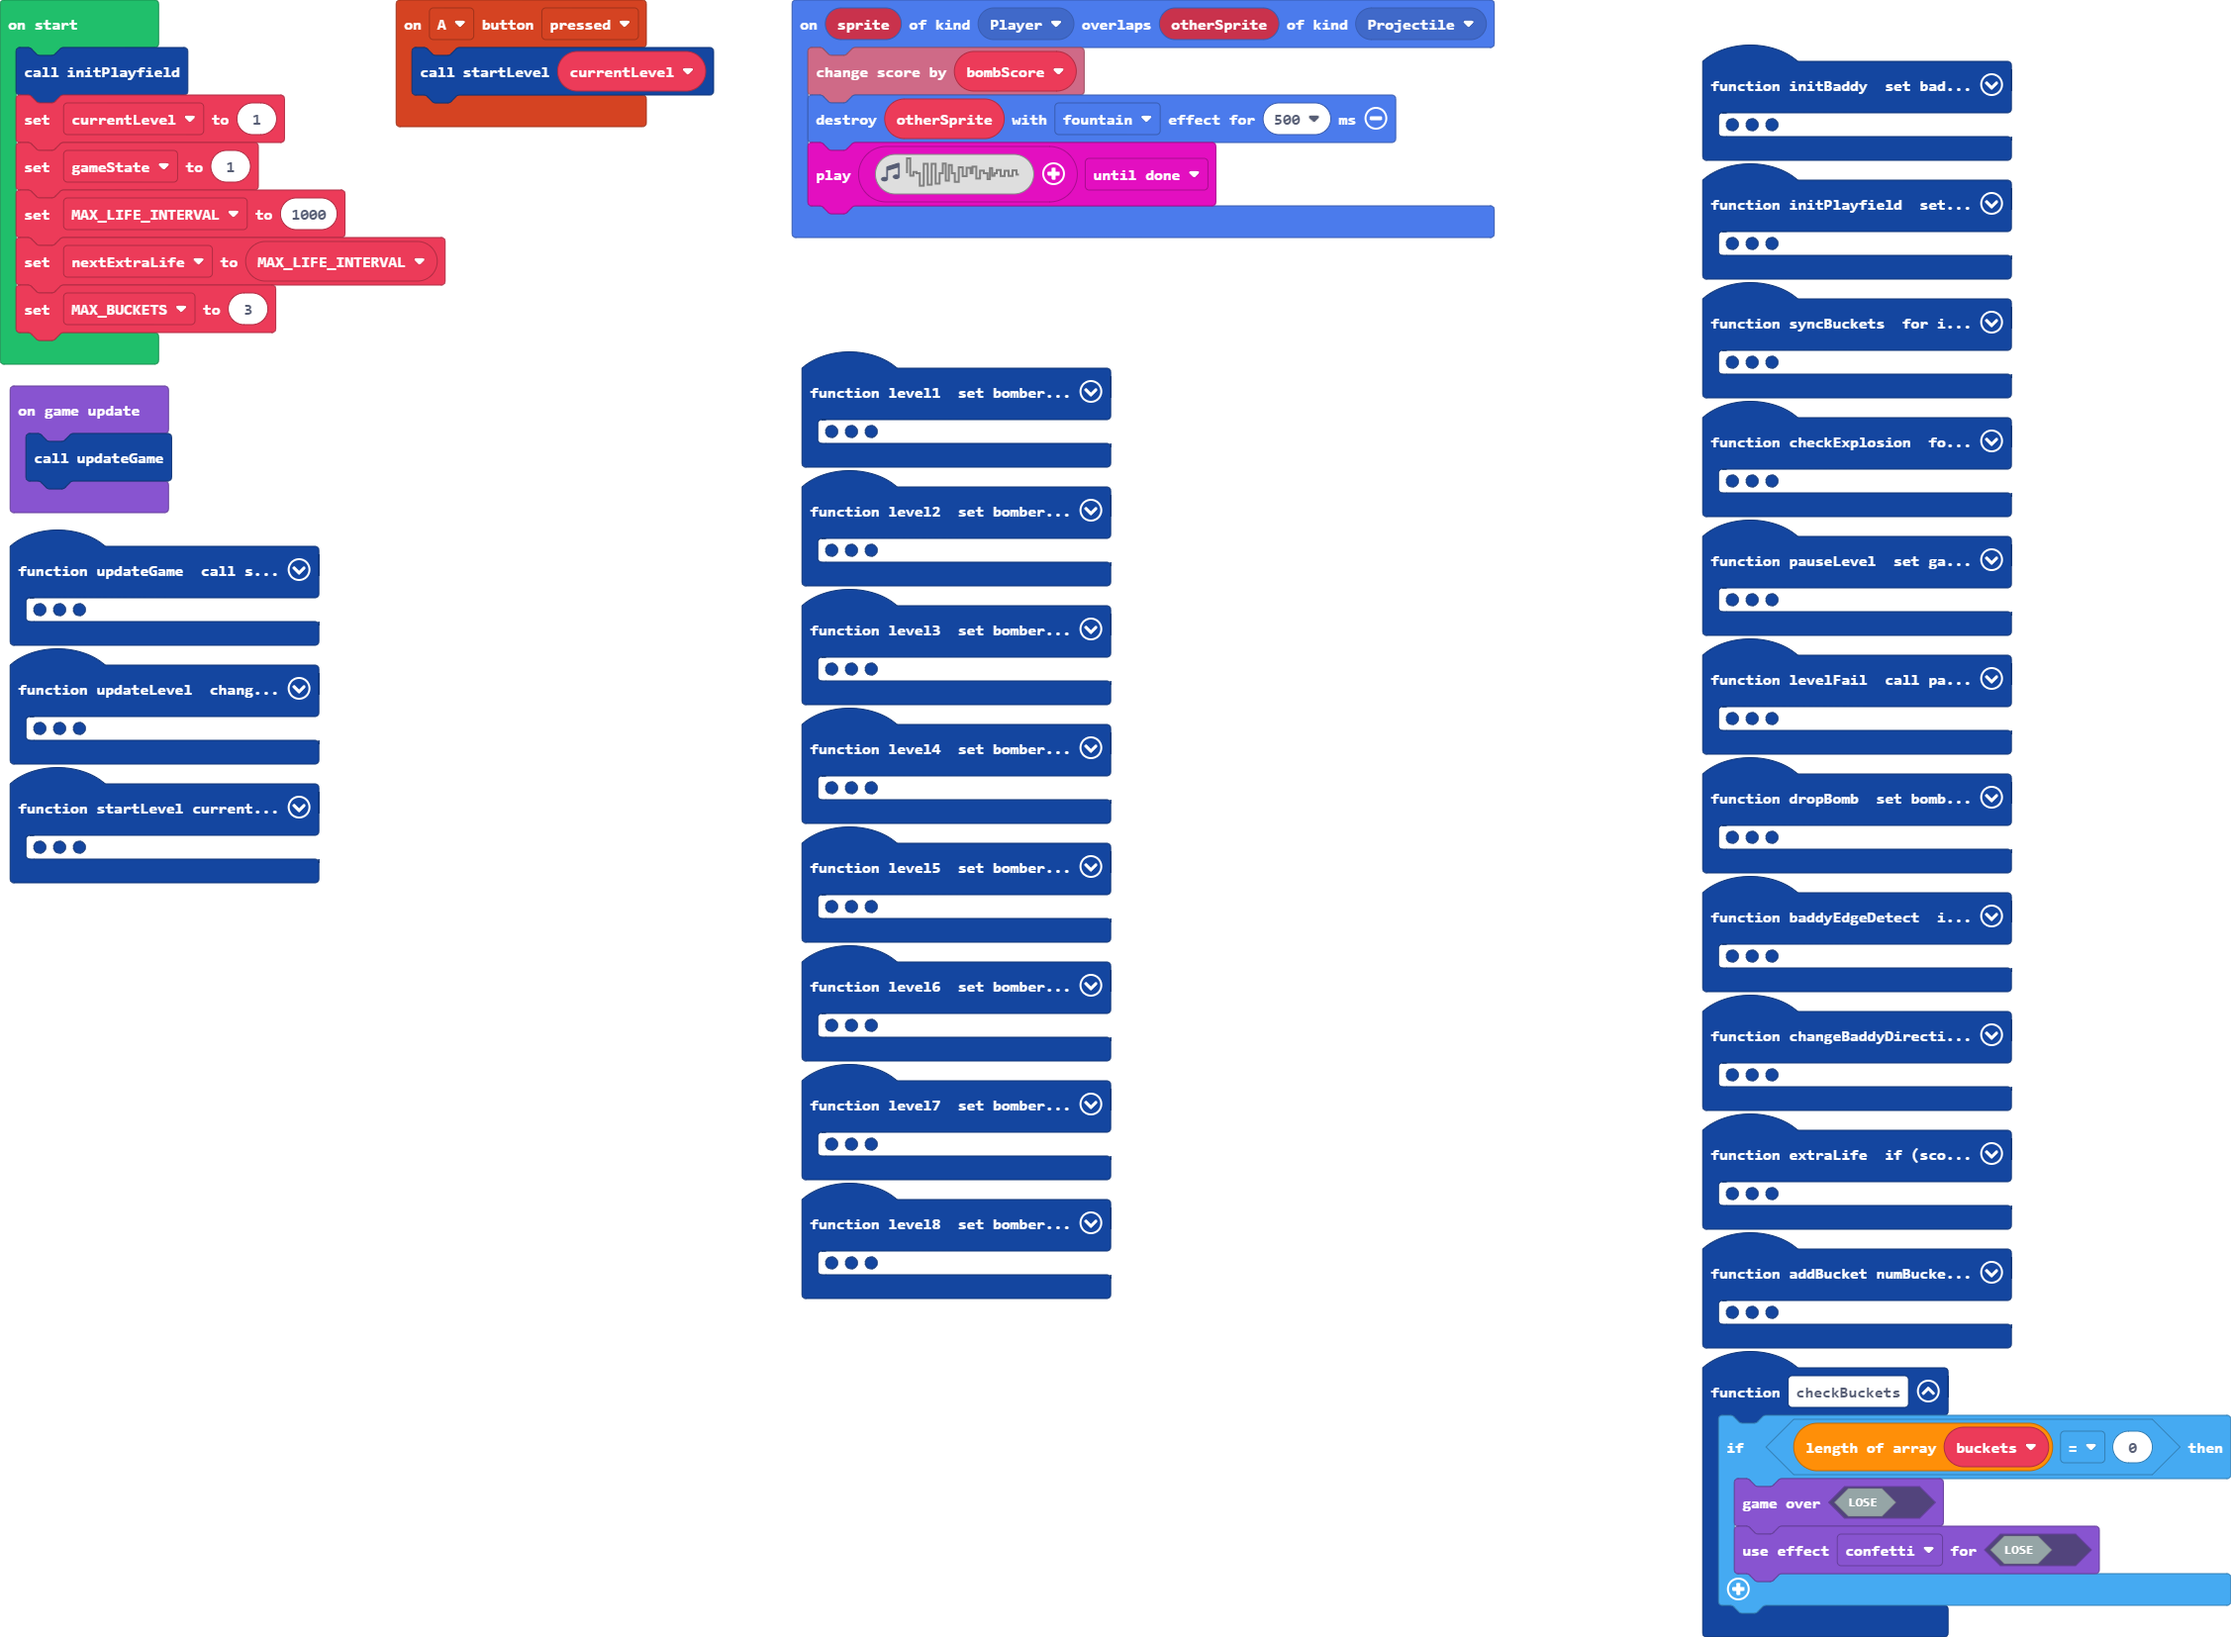
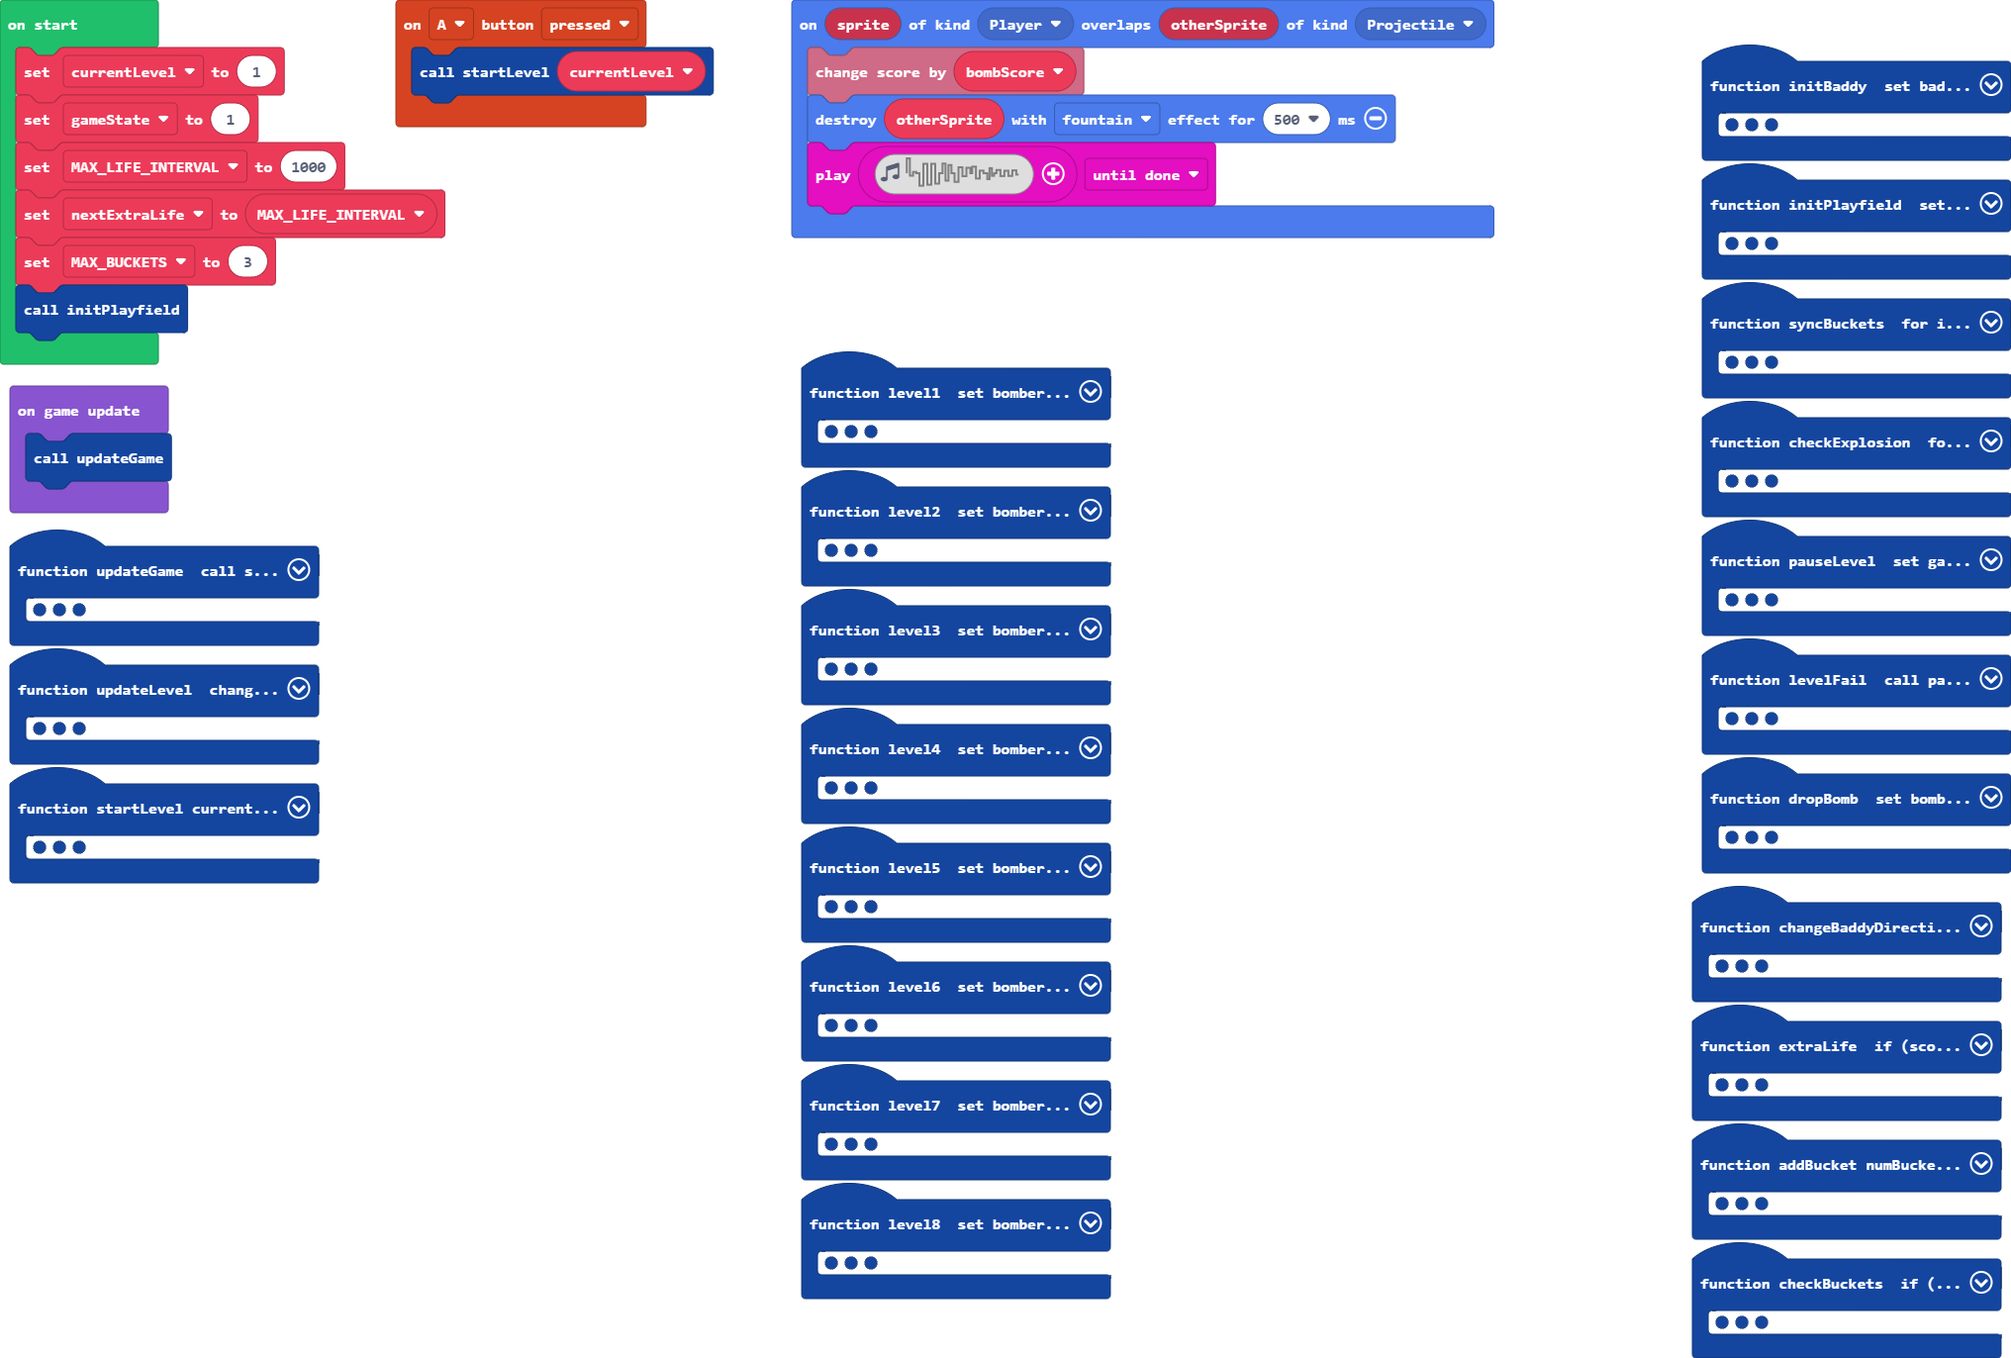
Update main.blocks, main.ts, main.py

diff --git a/main.ts b/main.ts
@@ -271,15 +271,6 @@ function changeBaddyDirection () {
     bomberSpeed = bomberSpeed * -1
     baddy.setVelocity(bomberSpeed, 0)
 }
-function baddyEdgeDetect () {
-    if (baddy.x <= 8) {
-        return 0
-    } else if (baddy.x >= 148) {
-        return 0
-    } else {
-        return 1
-    }
-}
 function startLevel (currentLevel: number) {
     if (currentLevel == 1) {
         level1()
@@ -355,12 +346,12 @@ let nextExtraLife = 0
 let MAX_LIFE_INTERVAL = 0
 let gameState = 0
 let currentLevel = 0
-initPlayfield()
 currentLevel = 1
 gameState = 1
 MAX_LIFE_INTERVAL = 1000
 nextExtraLife = MAX_LIFE_INTERVAL
 MAX_BUCKETS = 3
+initPlayfield()
 game.onUpdate(function () {
     updateGame()
 })

diff --git a/main.py b/main.py
@@ -32,6 +32,7 @@ def level4():
 def checkExplosion():
     for value in sprites.all_of_kind(SpriteKind.projectile):
         if value.y > scene.screen_height():
+            baddy.set_image(baddyImages[currentLevel2 + 8])
             levelFail()
 def level1():
     global bomberSpeed, bombCount, bombScore, bombsDropped, directionChangeLB, directionChangeUB, directionChange, dropIntervalLB, dropIntervalUB, dropInterval, dropSpeed, successState
@@ -47,6 +48,95 @@ def level1():
     dropInterval = randint(dropIntervalLB, dropIntervalUB)
     dropSpeed = 10
     successState = 1
+def addBucket(numBuckets: number):
+    global bucket
+    bucket = sprites.create(assets.image("""
+        bucket
+    """), SpriteKind.player)
+    bucket.set_position(scene.screen_width() / 2,
+        playerSprite.y + (12 + numBuckets * 12))
+    buckets.append(bucket)
+def initBaddy():
+    global baddyImages, baddy
+    baddyImages = [assets.image("""
+            happyEscaper04
+        """),
+        assets.image("""
+            sadEscaper1
+        """),
+        assets.image("""
+            sadEscaper2
+        """),
+        assets.image("""
+            sadEscaper3
+        """),
+        assets.image("""
+            sadEscaper4
+        """),
+        assets.image("""
+            sadEscaper5
+        """),
+        assets.image("""
+            sadEscaper6
+        """),
+        assets.image("""
+            sadEscaper7
+        """),
+        assets.image("""
+            sadEscaper8
+        """),
+        assets.image("""
+            happyEscaper04
+        """),
+        assets.image("""
+            happyEscaper04
+        """),
+        assets.image("""
+            happyEscaper04
+        """),
+        assets.image("""
+            happyEscaper4
+        """),
+        assets.image("""
+            happyEscaper5
+        """),
+        assets.image("""
+            happyEscaper6
+        """),
+        assets.image("""
+            happyEscaper7
+        """),
+        assets.image("""
+            happyEscaper8
+        """),
+        assets.image("""
+            surpriseEscaper13
+        """),
+        assets.image("""
+            surpriseEscaper13
+        """),
+        assets.image("""
+            surpriseEscaper13
+        """),
+        assets.image("""
+            surpriseEscaper4
+        """),
+        assets.image("""
+            surpriseEscaper5
+        """),
+        assets.image("""
+            surpriseEscaper6
+        """),
+        assets.image("""
+            surpriseEscaper7
+        """),
+        assets.image("""
+            surpriseEscaper8
+        """)]
+    baddy = sprites.create(baddyImages[0], SpriteKind.enemy)
+    baddy.set_position(10, 15)
+    baddy.set_stay_in_screen(True)
+    baddy.set_bounce_on_wall(True)
 
 def on_a_pressed():
     startLevel(currentLevel2)
@@ -114,6 +204,10 @@ def level2():
     dropInterval = randint(dropIntervalLB, dropIntervalUB)
     dropSpeed = 20
     successState = 1
+def checkBuckets():
+    if len(buckets) == 0:
+        game.game_over(False)
+        game.set_game_over_effect(False, effects.confetti)
 
 def on_on_overlap(sprite, otherSprite):
     info.change_score_by(bombScore)
@@ -133,12 +227,11 @@ def pauseLevel():
     global gameState
     gameState = 2
     controller.move_sprite(playerSprite, 0, 0)
-    playerSprite.set_velocity(0, 0)
     baddy.set_velocity(0, 0)
     for value2 in sprites.all_of_kind(SpriteKind.projectile):
         value2.vy = 0
 def initPlayfield():
-    global directionChange, buckets, row, value4, baddy, bomb, playerSprite, bucket
+    global directionChange, buckets, row, value4, bomb, playerSprite
     directionChange = 0
     buckets = []
     scene.set_background_color(9)
@@ -158,11 +251,7 @@ def initPlayfield():
             value4.set_position(column, row)
             column += 13
         row += 6
-    baddy = sprites.create(assets.image("""
-        sadEscaper
-    """), SpriteKind.enemy)
-    baddy.set_position(10, 15)
-    baddy.set_stay_in_screen(True)
+    initBaddy()
     bomb = sprites.create(assets.image("""
         babomb
     """), SpriteKind.projectile)
@@ -177,13 +266,22 @@ def initPlayfield():
     playerSprite.set_position(scene.screen_width() / 2, scene.screen_height() - 36)
     playerSprite.set_stay_in_screen(True)
     buckets.append(playerSprite)
-    for index4 in range(2):
-        bucket = sprites.create(assets.image("""
-            bucket
-        """), SpriteKind.player)
-        bucket.set_position(scene.screen_width() / 2,
-            playerSprite.y + (12 + index4 * 12))
-        buckets.append(bucket)
+    console.log_value("x", MAX_BUCKETS - 2)
+    index4 = 0
+    while index4 <= MAX_BUCKETS - 2:
+        console.log_value("x", MAX_BUCKETS - 2)
+        addBucket(index4)
+        console.log_value("buckets=", len(buckets))
+        index4 += 1
+def extraLife():
+    global nextExtraLife
+    if info.score() >= nextExtraLife:
+        music.play(music.melody_playable(music.power_up),
+            music.PlaybackMode.UNTIL_DONE)
+        nextExtraLife += MAX_LIFE_INTERVAL
+        baddy.set_image(baddyImages[currentLevel2 + 17])
+        if len(buckets) < MAX_BUCKETS:
+            addBucket(len(buckets) - 1)
 def level7():
     global bomberSpeed, bombCount, bombScore, bombsDropped, directionChangeLB, directionChangeUB, directionChange, dropIntervalLB, dropIntervalUB, dropInterval, dropSpeed, successState
     bomberSpeed = 90
@@ -202,39 +300,22 @@ def updateGame():
     global gameState
     syncBuckets()
     checkExplosion()
+    extraLife()
+    checkBuckets()
     if gameState == 0:
         if bombsDropped < bombCount:
             
             def on_throttle():
-                global bomb, dropInterval, bombsDropped
-                bomb.set_velocity(0, dropSpeed)
-                bomb = sprites.create(assets.image("""
-                    babomb
-                """), SpriteKind.projectile)
-                bomb.set_position(baddy.x, 25)
-                animation.run_image_animation(bomb, assets.animation("""
-                    litbomb
-                """), 200, True)
-                dropInterval = randint(dropIntervalLB, dropIntervalUB)
-                bombsDropped += 1
+                dropBomb()
                 
                 def on_background():
-                    global bomberSpeed
-                    if baddy.x <= 8:
-                        bomberSpeed = bomberSpeed * -1
-                        baddy.set_velocity(bomberSpeed, 0)
-                    elif baddy.x >= 148:
-                        bomberSpeed = bomberSpeed * -1
-                        baddy.set_velocity(bomberSpeed, 0)
-                    else:
-                        
-                        def on_throttle2():
-                            global bomberSpeed, directionChange
-                            bomberSpeed = bomberSpeed * -1
-                            baddy.set_velocity(bomberSpeed, 0)
-                            directionChange = randint(directionChangeLB, directionChangeUB)
-                        timer.throttle("changeDirection", directionChange, on_throttle2)
-                        
+                    
+                    def on_throttle2():
+                        global directionChange
+                        changeBaddyDirection()
+                        directionChange = randint(directionChangeLB, directionChangeUB)
+                    timer.throttle("changeDirection", directionChange, on_throttle2)
+                    
                 timer.background(on_background)
                 
             timer.throttle("BombDrop", dropInterval, on_throttle)
@@ -245,15 +326,14 @@ def updateGame():
         baddy.set_velocity(0, 0)
         if len(sprites.all_of_kind(SpriteKind.projectile)) == 1:
             updateLevel()
-        else:
-            checkExplosion()
 def updateLevel():
     global currentLevel2, gameState
-    console.log_value("success state", successState)
-    console.log_value("current level before", currentLevel2)
     currentLevel2 += successState
-    console.log_value("current level after", currentLevel2)
     gameState = 1
+def changeBaddyDirection():
+    global bomberSpeed
+    bomberSpeed = bomberSpeed * -1
+    baddy.set_velocity(bomberSpeed, 0)
 def startLevel(currentLevel: number):
     global gameState
     if currentLevel == 1:
@@ -274,8 +354,8 @@ def startLevel(currentLevel: number):
         level8()
     gameState = 0
     controller.move_sprite(playerSprite, 100, 0)
-    playerSprite.set_velocity(100, 0)
     baddy.set_velocity(bomberSpeed, 0)
+    baddy.set_image(baddyImages[currentLevel])
 def levelFail():
     global successState
     pauseLevel()
@@ -291,13 +371,26 @@ def levelFail():
     else:
         successState = -1
     updateLevel()
-bucket: Sprite = None
+def dropBomb():
+    global bomb, dropInterval, bombsDropped
+    bomb.set_velocity(0, dropSpeed)
+    bomb = sprites.create(assets.image("""
+        babomb
+    """), SpriteKind.projectile)
+    bomb.set_position(baddy.x, 25)
+    animation.run_image_animation(bomb, assets.animation("""
+        litbomb
+    """), 200, True)
+    dropInterval = randint(dropIntervalLB, dropIntervalUB)
+    bombsDropped += 1
 value4: Sprite = None
 row = 0
-playerSprite: Sprite = None
-baddy: Sprite = None
 bomb: Sprite = None
 buckets: List[Sprite] = []
+playerSprite: Sprite = None
+bucket: Sprite = None
+baddyImages: List[Image] = []
+baddy: Sprite = None
 successState = 0
 dropSpeed = 0
 dropInterval = 0
@@ -310,11 +403,17 @@ bombsDropped = 0
 bombScore = 0
 bombCount = 0
 bomberSpeed = 0
+MAX_BUCKETS = 0
+nextExtraLife = 0
+MAX_LIFE_INTERVAL = 0
 gameState = 0
 currentLevel2 = 0
 initPlayfield()
 currentLevel2 = 1
 gameState = 1
+MAX_LIFE_INTERVAL = 1000
+nextExtraLife = MAX_LIFE_INTERVAL
+MAX_BUCKETS = 3
 
 def on_on_update():
     updateGame()
